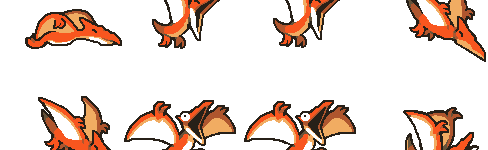
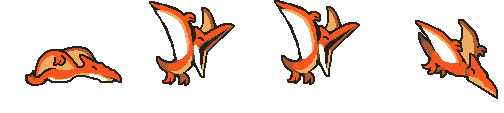
fix(pets): 스프라이트 시트 격자 오정의 수정 — 드래곤맨·공룡 5종·꼬마 로봇 (#196)
PetSprite.frames는 `CGRect(x: i*w, y: 0, w, h)`로 1행 가로 스트립만 자르는데,
아래 7종은 임포트가 원본 격자를 무시해 프레임 내용이 깨져 있었다.

- 드래곤맨: 290x134 시트가 5열x2행인데 cellSize가 (145,134)라 프레임 2개에
  캐릭터 6마리가 뭉쳐 나왔다. 원본(dragon-man.png)과 동일 구조인 1행=Idle /
  2행=Run 으로 분리하고 cellSize (58,67).
- 공룡 5종(DinoDragon/DinoLizard/MiniRex/DinoPlant/Pterodactyl): Idle은 발밑에
  이웃 행 조각이 붙고 Run은 캐릭터가 잘려 있었다. 원본 팩
  (sparklinlabs/superpowers-asset-packs, CC0)의 격자를 실측해 1행=Idle,
  2행=Run 만 재추출. Idle/Run이 cellSize를 공유하므로 두 행의 공통 알파
  여백만 트림해 발 위치를 맞췄다.
- MiniBot: 발밑 6px 잔여 조각 제거, cellSize (14,18).

셀 높이가 줄어든 만큼 화면상 캐릭터가 커진다 — WalkingCat이 renderHeight에
셀 높이를 맞추므로, 그동안 빈 여백이 차지하던 만큼 다른 펫과 크기가 맞아진다.

검증: 195종 전부를 렌더러와 동일한 크롭으로 뽑아 육안 확인 + 잔여 조각
검출기 전수 통과(380개 PNG, 의심 0건). swift test 179개 통과.

diff --git a/Sources/ClaudeUsage/PetSprite.swift b/Sources/ClaudeUsage/PetSprite.swift
@@ -622,7 +622,7 @@ enum PetKind: String, CaseIterable, Identifiable, Codable {
                                  defaultTheme: .space)
         case .miniBot:
             return PetDefinition(prefix: "MiniBot", displayName: "꼬마 로봇",
-                                 cellSize: (14, 25), defaultFacingLeft: false,
+                                 cellSize: (14, 18), defaultFacingLeft: false,
                                  walkSuffix: "Run", runSuffix: "Run", idleSuffix: "Idle",
                                  defaultTheme: .space)
         case .visorBot:
@@ -981,7 +981,7 @@ enum PetKind: String, CaseIterable, Identifiable, Codable {
                                  defaultTheme: .wilderness)
         case .dinoDragon:
             return PetDefinition(prefix: "DinoDragon", displayName: "새끼 드래곤",
-                                 cellSize: (93, 86), defaultFacingLeft: true,
+                                 cellSize: (98, 65), defaultFacingLeft: true,
                                  walkSuffix: "Run", runSuffix: "Run", idleSuffix: "Idle",
                                  defaultTheme: .volcano)
         case .dinoBug:
@@ -991,22 +991,22 @@ enum PetKind: String, CaseIterable, Identifiable, Codable {
                                  defaultTheme: .field)
         case .dinoLizard:
             return PetDefinition(prefix: "DinoLizard", displayName: "고대 도마뱀",
-                                 cellSize: (97, 68), defaultFacingLeft: true,
+                                 cellSize: (105, 45), defaultFacingLeft: true,
                                  walkSuffix: "Run", runSuffix: "Run", idleSuffix: "Idle",
                                  defaultTheme: .desert)
         case .miniRex:
             return PetDefinition(prefix: "MiniRex", displayName: "아기 렉스",
-                                 cellSize: (80, 82), defaultFacingLeft: true,
+                                 cellSize: (80, 52), defaultFacingLeft: true,
                                  walkSuffix: "Run", runSuffix: "Run", idleSuffix: "Idle",
                                  defaultTheme: .wilderness)
         case .dinoPlant:
             return PetDefinition(prefix: "DinoPlant", displayName: "식충 식물룡",
-                                 cellSize: (135, 113), defaultFacingLeft: true,
+                                 cellSize: (135, 82), defaultFacingLeft: true,
                                  walkSuffix: "Run", runSuffix: "Run", idleSuffix: "Idle",
                                  defaultTheme: .toxic)
         case .pterodactyl:
             return PetDefinition(prefix: "Pterodactyl", displayName: "프테라노돈",
-                                 cellSize: (122, 150), defaultFacingLeft: true,
+                                 cellSize: (126, 113), defaultFacingLeft: true,
                                  walkSuffix: "Run", runSuffix: "Run", idleSuffix: "Idle",
                                  defaultTheme: .aurora)
         case .dinoTurtle:
@@ -1038,7 +1038,7 @@ enum PetKind: String, CaseIterable, Identifiable, Codable {
                                  defaultTheme: .grassland)
         case .dragonMan:
             return PetDefinition(prefix: "DragonMan", displayName: "드래곤맨",
-                                 cellSize: (145, 134), defaultFacingLeft: false,
+                                 cellSize: (58, 67), defaultFacingLeft: false,
                                  walkSuffix: "Run", runSuffix: "Run", idleSuffix: "Idle",
                                  defaultTheme: .volcano)
         case .lionWarrior:
